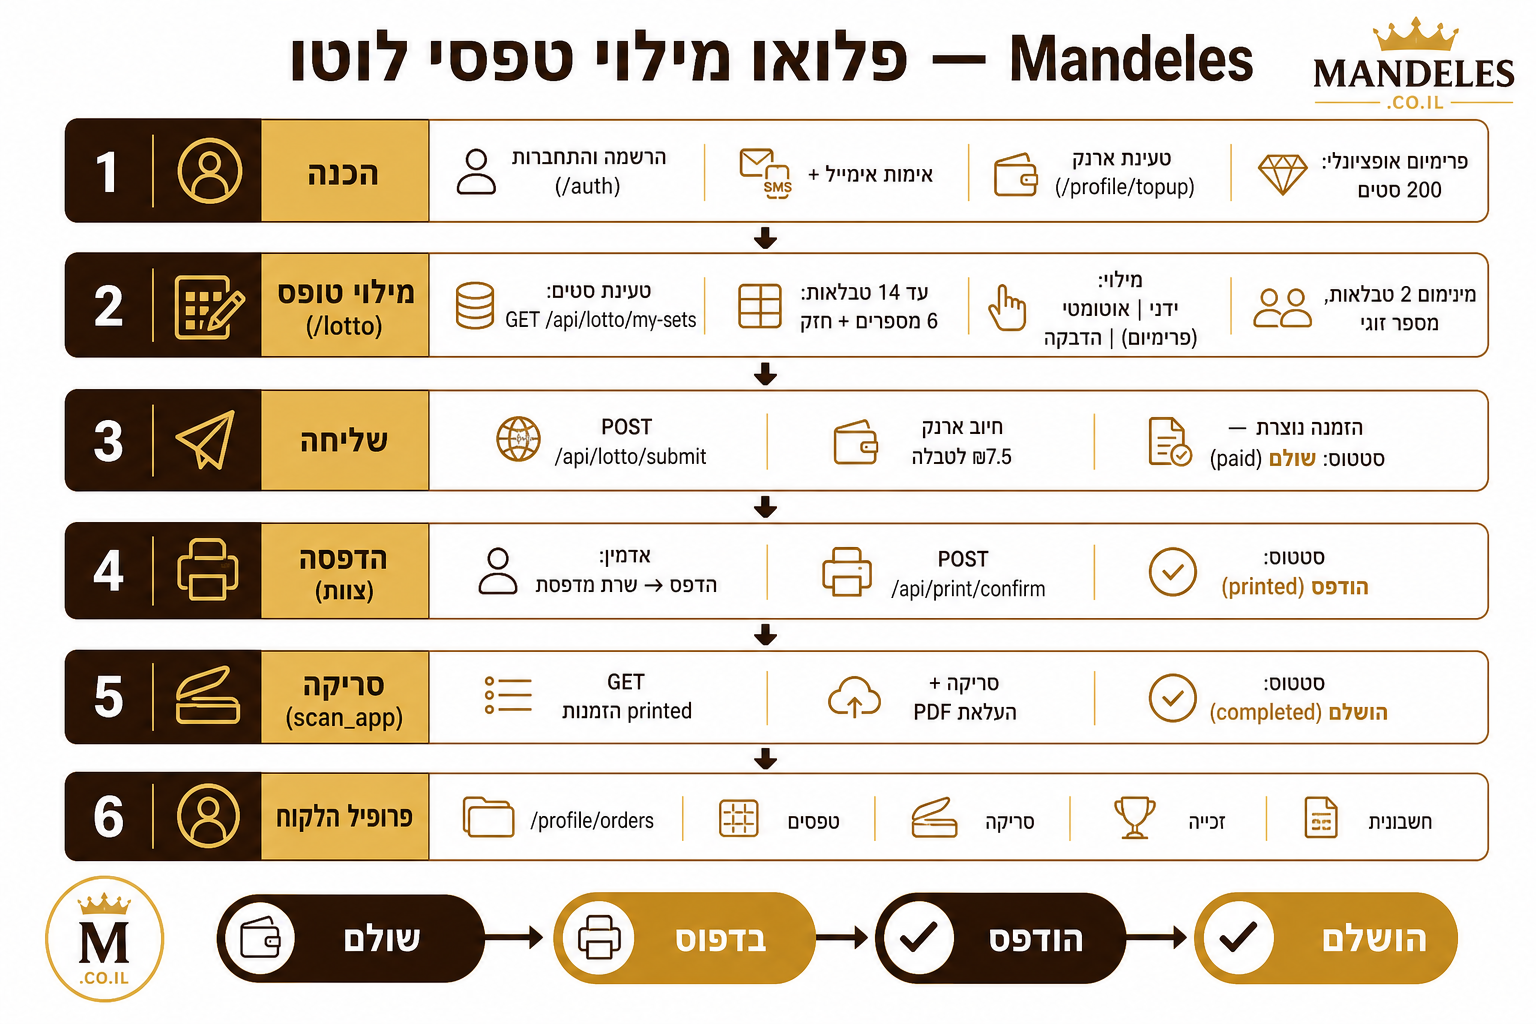
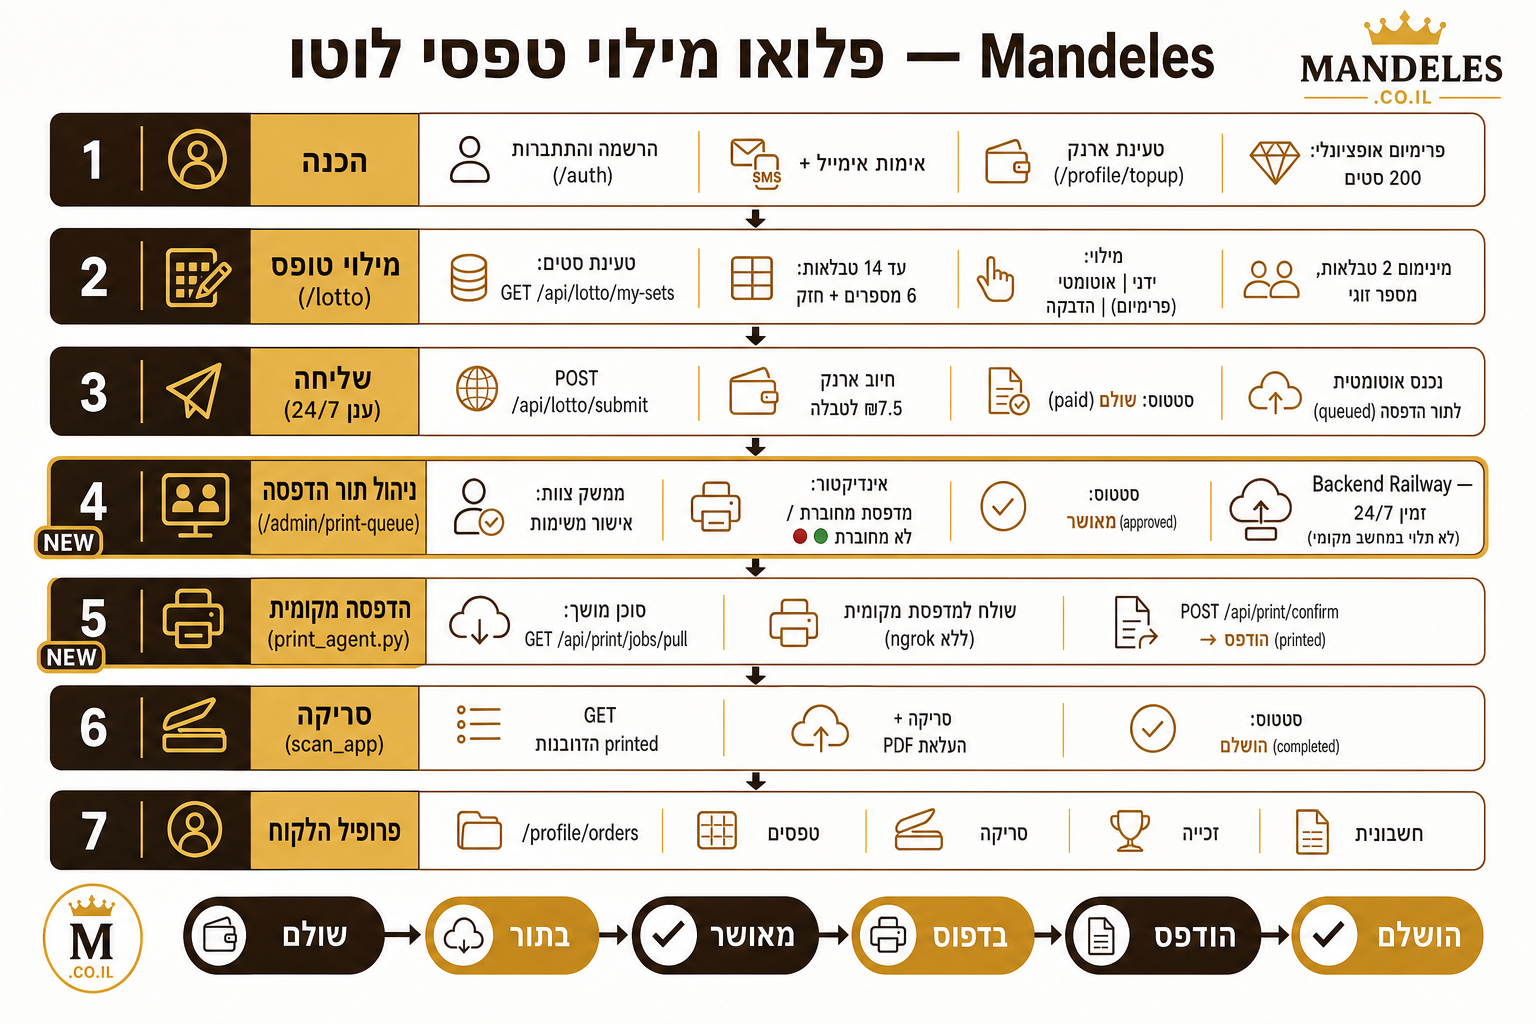
Remove customer-facing print and update lotto flow diagram.
Orders go straight to the print queue without ngrok errors on the lotto page; lotto/print is staff-only. Diagram reflects cloud queue and print_agent.

Changed region(s): [[0.0, 0.0, 1.0, 1.0]]

diff --git a/frontend/app/(site)/lotto/page.tsx b/frontend/app/(site)/lotto/page.tsx
@@ -6,7 +6,6 @@ import ProtectedRoute from "@/components/ProtectedRoute";
 import { useAuth } from "@/lib/auth/AuthContext";
 import { extractApiError } from "@/lib/api/client";
 import { lottoService } from "@/lib/api/lotto";
-import { formatPrintSuccessMessage } from "@/lib/api/print-feedback";
 import { DEMO_ORDER, isDemoMode as checkDemoMode } from "@/lib/demo";
 
 interface TableSel { nums: Set<number>; strong: number | null; }
@@ -175,7 +174,6 @@ function LottoPageInner() {
   const [allSets, setAllSets] = useState<RawSet[]>([]);
   const [userTier, setUserTier] = useState<'premium'|'registered'>('registered');
   const [submitting, setSubmitting] = useState(false);
-  const [printing, setPrinting] = useState(false);
   const [isDouble, setIsDouble] = useState(false);
   const [result, setResult] = useState<{orderNumber:string;total:number;count:number}|null>(null);
   const [toast, setToast] = useState<{msg:string;type:string}|null>(null);
@@ -286,45 +284,6 @@ function LottoPageInner() {
 
   const countFilled=useCallback(()=>Object.values(sel).filter(d=>d.nums.size===6&&d.strong).length,[sel]);
 
-  const buildPrintTables=useCallback(()=>
-    Object.entries(sel)
-      .filter(([,d])=>d.nums.size===6&&d.strong)
-      .map(([k,d])=>({
-        number:parseInt(k,10),
-        numbers:[...d.nums].sort((a,b)=>a-b),
-        strong:d.strong as number,
-      })),
-  [sel]);
-
-  const handlePrint=async()=>{
-    if(printing){
-      showToast('הדפסה בתהליך…','info',0);
-      return;
-    }
-    showToast('שולח להדפסה…','info',1500);
-    const tables=buildPrintTables();
-    if(!tables.length){
-      showToast('לבחירת הדפסה: מלא לפחות טבלה אחת — 6 מספרים + מספר חזק','err',5000);
-      return;
-    }
-    if(isDemo.current){ showToast('הדפסה לשרת לא זמינה בדמו','err',4000); return; }
-    if(!isAuthenticated){
-      showToast('יש להתחבר לפני הדפסה','err',3000);
-      router.push('/auth?redirect=/lotto');
-      return;
-    }
-    setPrinting(true);
-    showToast('הדפסה בתהליך…','info',0);
-    try{
-      const res=await lottoService.printSummary({ tables, order_id: 0 });
-      showToast(formatPrintSuccessMessage(res, tables.length),'ok',5000);
-    }catch(err){
-      showToast(extractApiError(err,'הדפסה נכשלה'),'err',6000);
-    }finally{
-      setPrinting(false);
-    }
-  };
-
   const submit=async()=>{
     const demo=isDemo.current;
     const filledEntries=Object.entries(sel).filter(([,d])=>d.nums.size===6&&d.strong);
@@ -365,13 +324,14 @@ function LottoPageInner() {
     <LottoToast toast={toast} />
     <div className="page-wrap" style={{textAlign:'center',paddingTop:40}}>
       <div style={{fontSize:'2.5rem',marginBottom:12}}>🎉</div>
-      <h2 style={{fontSize:'1.3rem',fontWeight:900,color:'var(--green)',marginBottom:8}}>{result.count} טבלאות נשלחו!</h2>
-      <p style={{color:'var(--muted)',fontSize:'.82rem',marginBottom:6}}>הזמנה: <strong style={{color:'var(--gold-dark)'}}>{result.orderNumber}</strong></p>
-      <p style={{color:'var(--muted)',fontSize:'.78rem',marginBottom:24}}>סה"כ: ₪{Number(result.total).toFixed(2)} — תקבל עדכון SMS ואימייל</p>
+      <h2 style={{fontSize:'1.3rem',fontWeight:900,color:'var(--green)',marginBottom:8}}>ההזמנה התקבלה!</h2>
+      <p style={{color:'var(--muted)',fontSize:'.82rem',marginBottom:6}}>{result.count} טבלאות · הזמנה: <strong style={{color:'var(--gold-dark)'}}>{result.orderNumber}</strong></p>
+      <p style={{color:'var(--muted)',fontSize:'.78rem',marginBottom:8}}>סה"כ: ₪{Number(result.total).toFixed(2)} — תקבל עדכון SMS ואימייל</p>
+      <p style={{color:'var(--cream)',fontSize:'.8rem',marginBottom:24,maxWidth:360,margin:'0 auto 24px',lineHeight:1.6}}>
+        הטפסים נכנסו לתור הדפסה. הצוות ידפיס אותם — אין צורך לעשות דבר נוסף.
+      </p>
       <div style={{display:'flex',gap:10,justifyContent:'center',flexWrap:'wrap'}}>
-        <button type="button" className={`btn ${printing?'btn-ghost':'btn-gold'}`} onClick={handlePrint} aria-busy={printing}>
-          {printing?'הדפסה בתהליך…':'🖨️ הדפס למדפסת'}
-        </button>
+        <button className="btn btn-gold" onClick={()=>router.push('/profile/orders')}>📋 היסטוריית רכישות</button>
         <button className="btn btn-gold" onClick={()=>{setSel(emptyTables());setResult(null);}}>מלא טפסים נוספים</button>
         <button className="btn btn-outline" onClick={()=>router.push('/profile')}>← פרופיל</button>
       </div>
@@ -503,14 +463,6 @@ function LottoPageInner() {
 
       <div className="lotto-actions">
         <button type="button" className="btn btn-outline" onClick={()=>router.push('/profile')}>← פרופיל</button>
-        <button
-          type="button"
-          className={`btn btn-full ${printing?'btn-ghost':'btn-gold'}`}
-          onClick={handlePrint}
-          aria-busy={printing}
-        >
-          {printing?'הדפסה בתהליך…':filled===0?'🖨️ הדפס (מלא טבלה)':'🖨️ הדפס'}
-        </button>
       </div>
     </div></>
   );

diff --git a/frontend/lib/api/lotto.ts b/frontend/lib/api/lotto.ts
@@ -39,19 +39,6 @@ export interface SubmitResponse {
   message: string;
 }
 
-export interface PrintTablePayload {
-  number: number;
-  numbers: number[];
-  strong: number;
-}
-
-export interface PrintSummaryResponse {
-  detail: string;
-  tables_count?: number;
-  printer_confirmed?: boolean;
-  print_response?: Record<string, unknown>;
-}
-
 export const lottoService = {
   async mySets(drawDate?: string): Promise<MySetsResponse> {
     const { data } = await api.get<MySetsResponse>("/lotto/my-sets/", {
@@ -74,14 +61,6 @@ export const lottoService = {
     draw_date?: string;
   }): Promise<{ status: string; sets_count: number; expires_at: string; plan: string; draw_date: string }> {
     const { data } = await api.post("/lotto/subscribe/", payload);
-    return data;
-  },
-
-  async printSummary(payload: {
-    tables: PrintTablePayload[];
-    order_id?: number;
-  }): Promise<PrintSummaryResponse> {
-    const { data } = await api.post<PrintSummaryResponse>("/lotto/print/", payload);
     return data;
   },
 };

diff --git a/backend/api/lotto_views.py b/backend/api/lotto_views.py
@@ -211,7 +211,14 @@ def submit_order(request):
 @api_view(['POST'])
 @permission_classes([permissions.IsAuthenticated])
 def print_summary(request):
-    """POST /api/lotto/print/ — send filled tables to external print server."""
+    """POST /api/lotto/print/ — staff-only legacy; customers use submit + print queue."""
+    if not getattr(request.user, 'is_staff', False):
+        return Response(
+            {
+                'detail': 'הדפסה מתבצעת על ידי הצוות בתור ההדפסה — ההזמנה שלך כבר בתור.',
+            },
+            status=status.HTTP_403_FORBIDDEN,
+        )
     from api.services.print_service import (
         PrintError,
         _print_payload_mode,